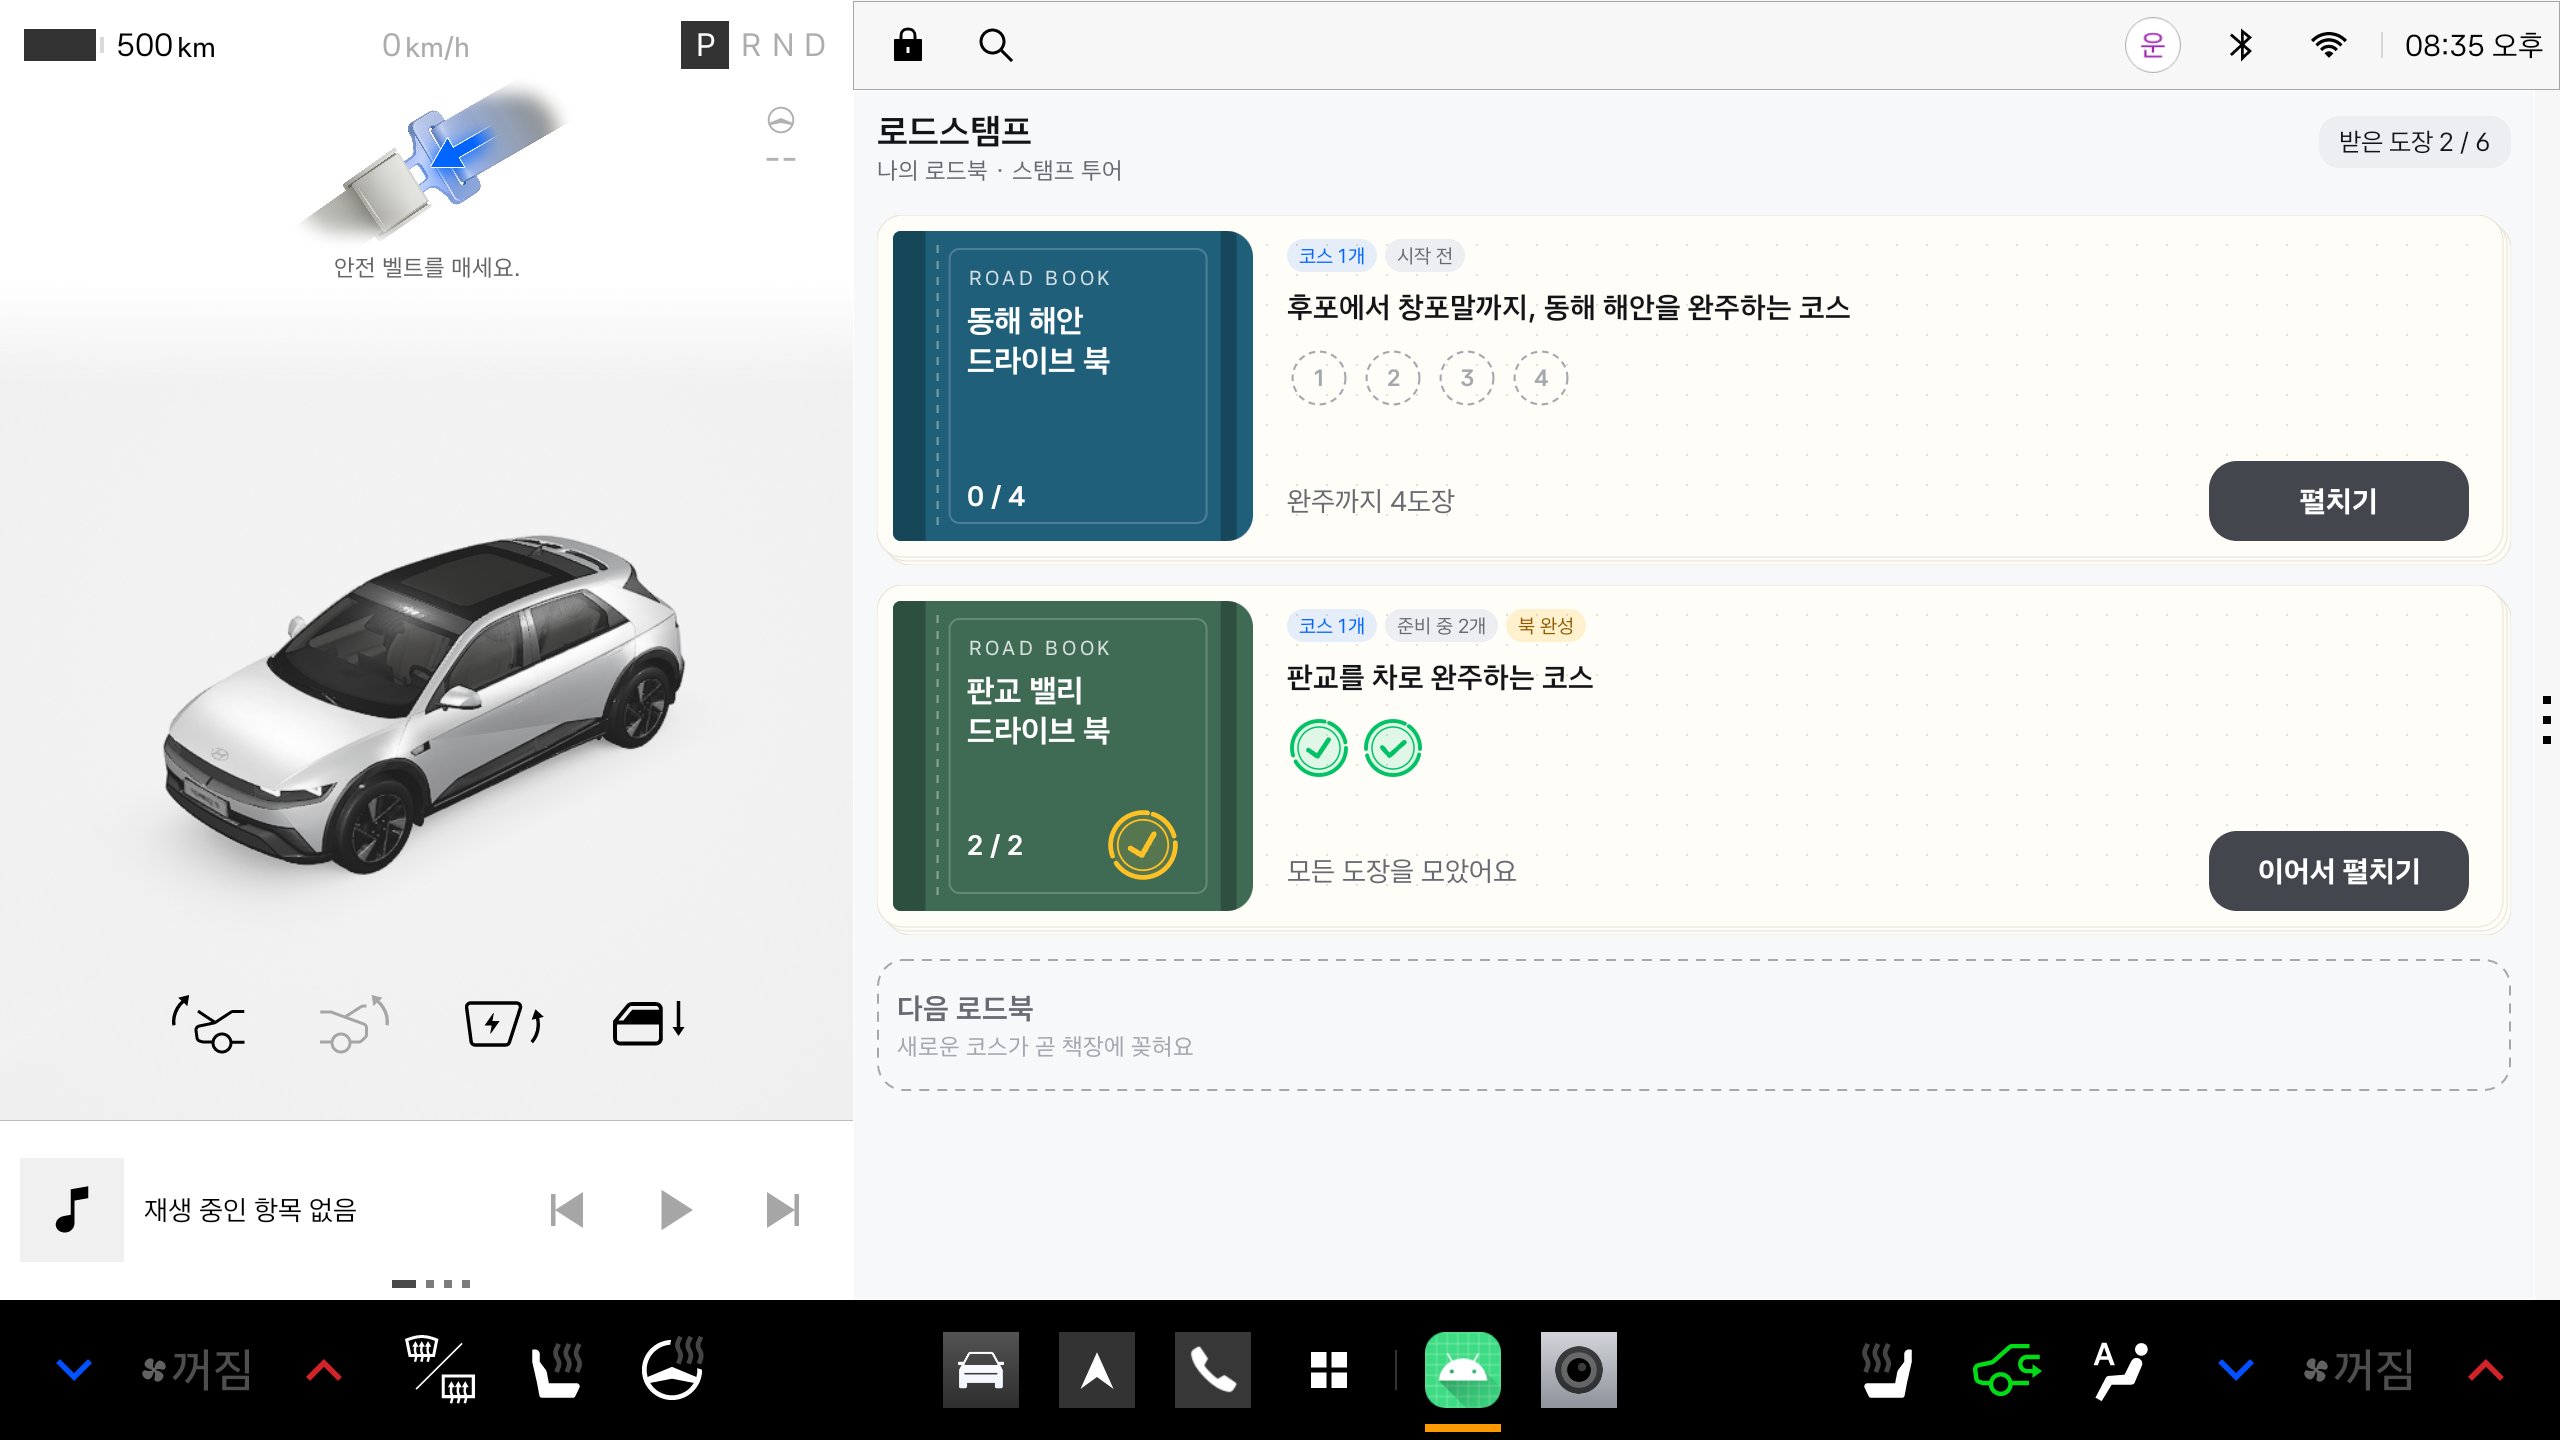
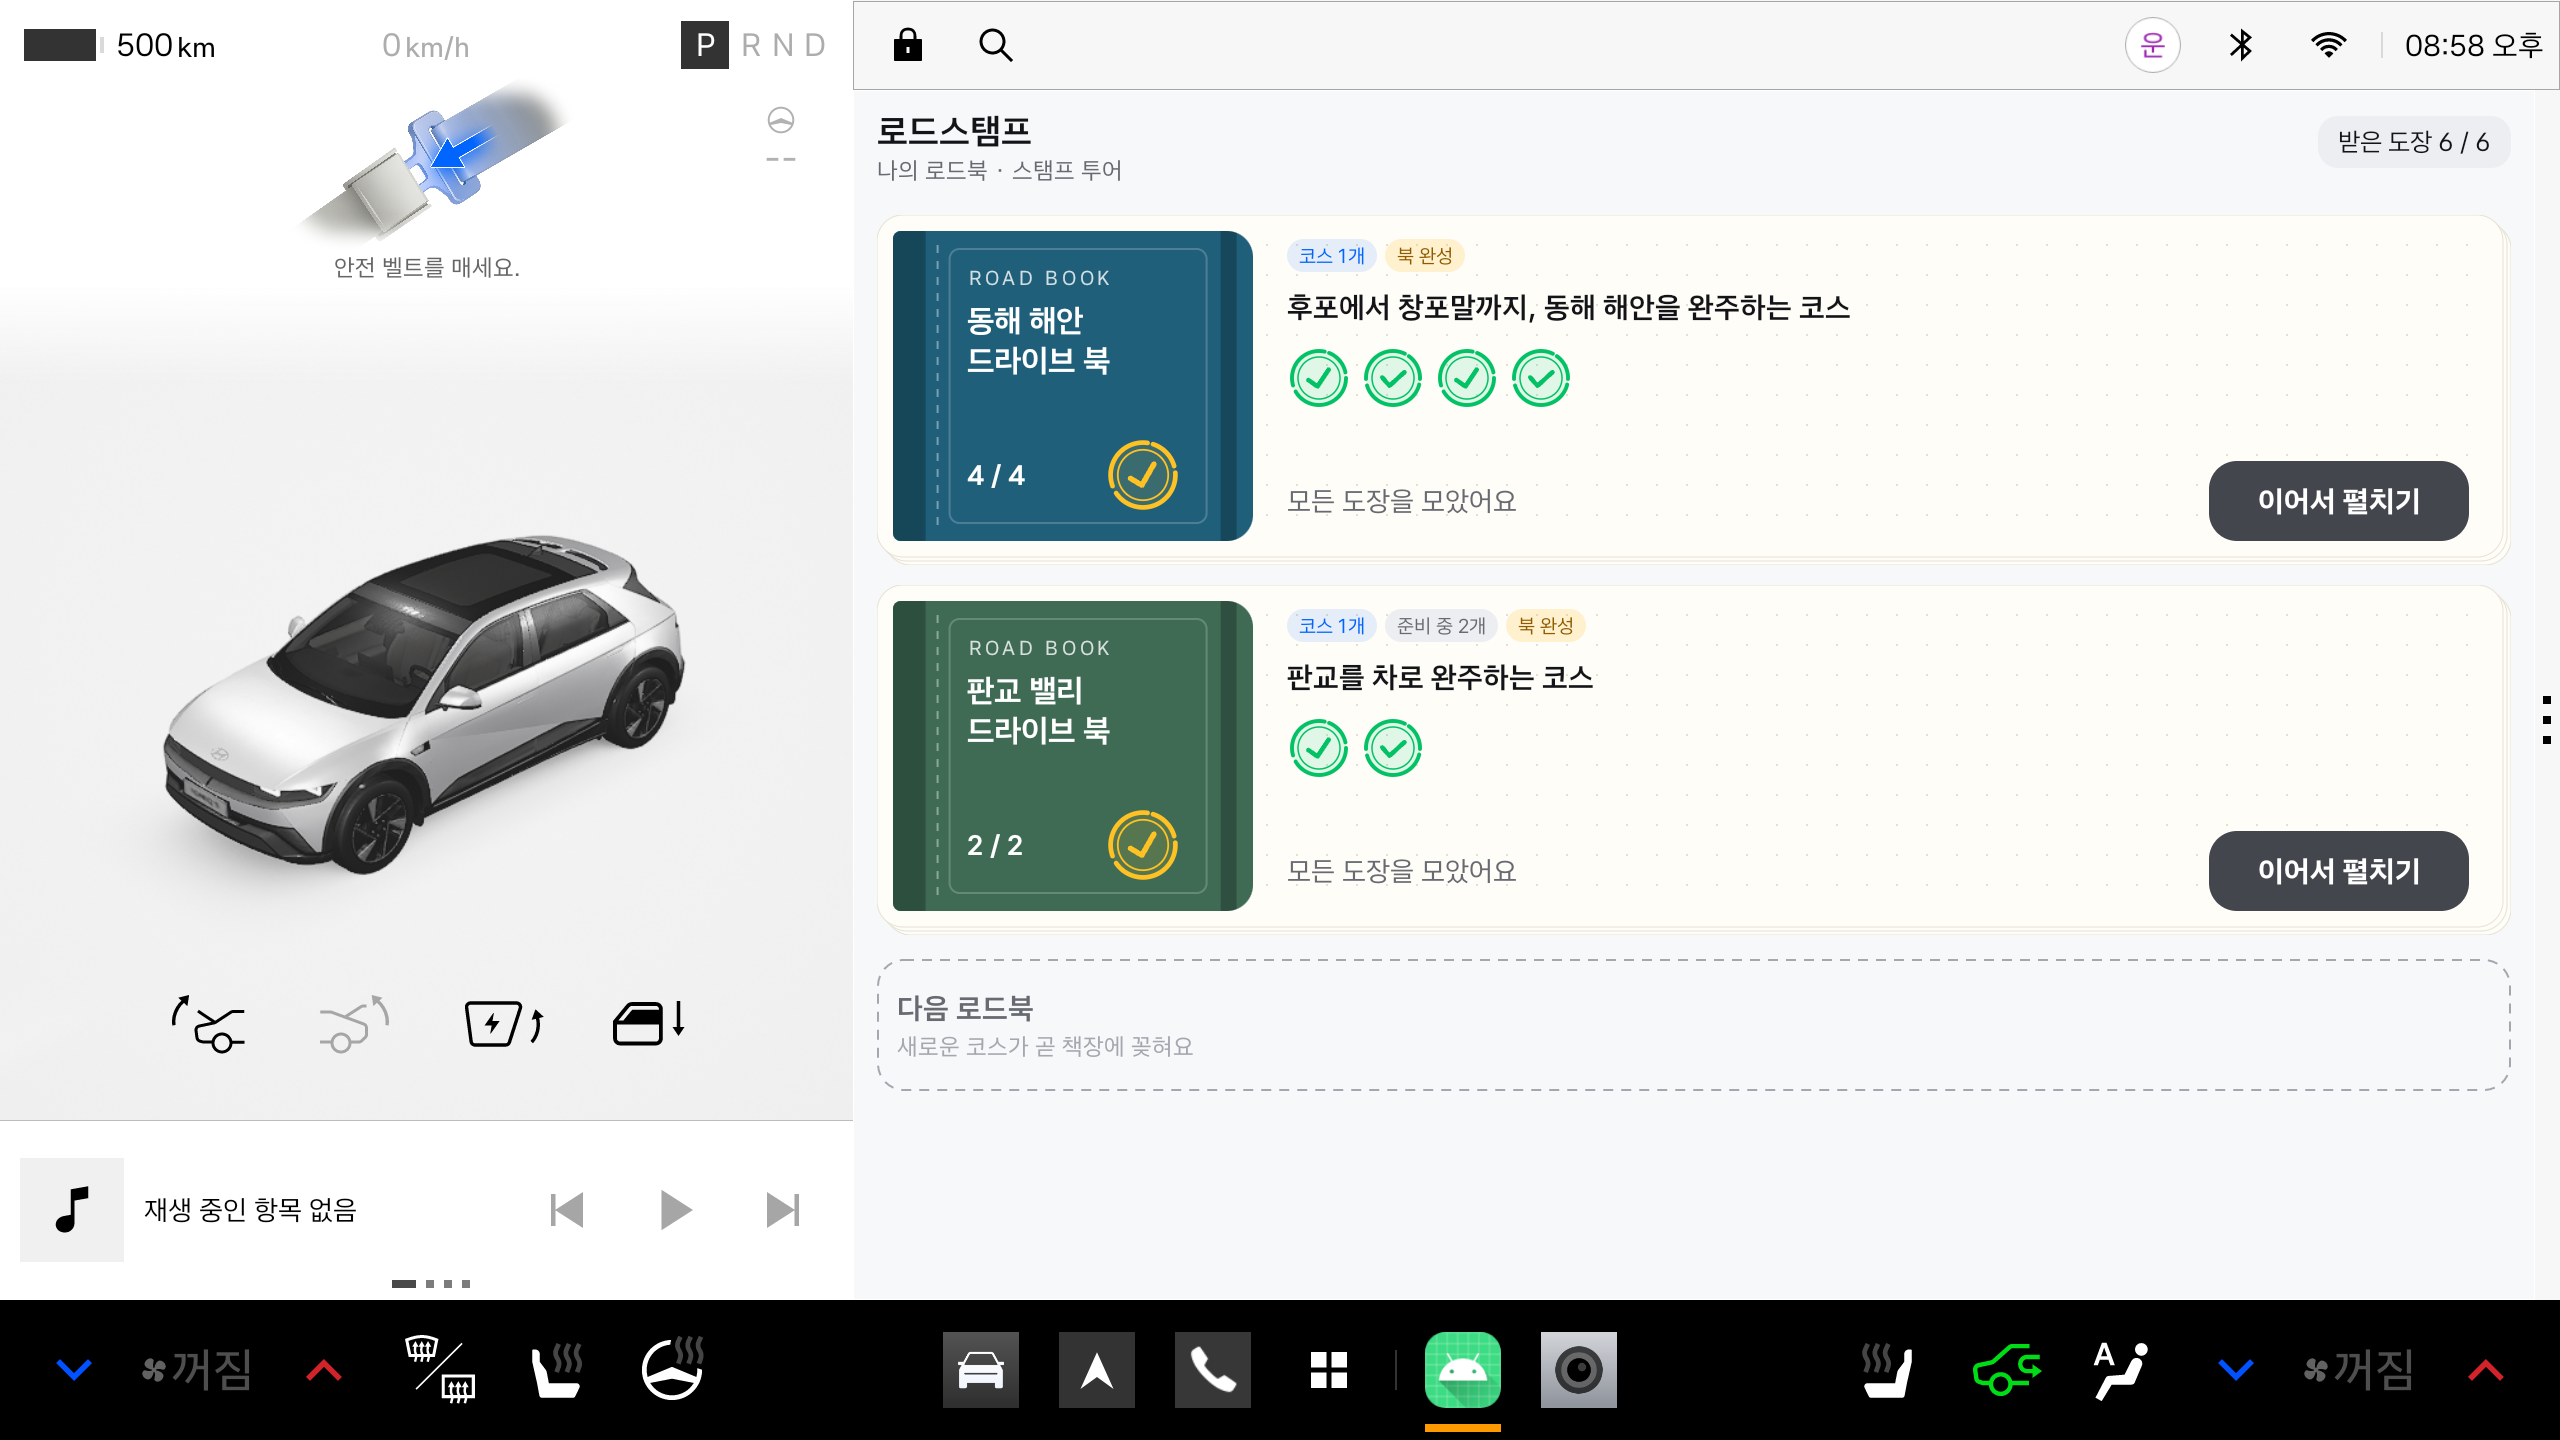
Update README screenshots with drive and completion screens

diff --git a/README.md b/README.md
@@ -21,9 +21,19 @@ Pleos Connect 에뮬레이터에서 캡처한 화면입니다.
 
 ![로드북 목록](screenshots/01-home.png)
 
-펼친 책: 왼쪽에 코스 지도, 오른쪽에 체크포인트별 도장 목록이 있습니다.
+펼친 책(시작 전): 왼쪽에 코스 지도, 오른쪽에 체크포인트별 도장 목록이 있습니다.
 
 ![펼친 책](screenshots/02-book.png)
+
+드라이브 화면: 1구간 도장이 찍힌 뒤 2구간 도착을 기다리는 상태입니다. 이 도장은 FusedLocation 좌표로 판정되었습니다.
+
+![드라이브 화면](screenshots/03-drive.png)
+
+완주한 책과 완주 팝업: 아래 두 화면은 앱의 데모 리플레이(시연용)로 구간을 재생해 얻은 화면입니다.
+
+![완주한 책](screenshots/06-book-complete.png)
+
+![완주 팝업](screenshots/04-complete-popup.png)
 
 ## 사용한 Pleos SDK
 
